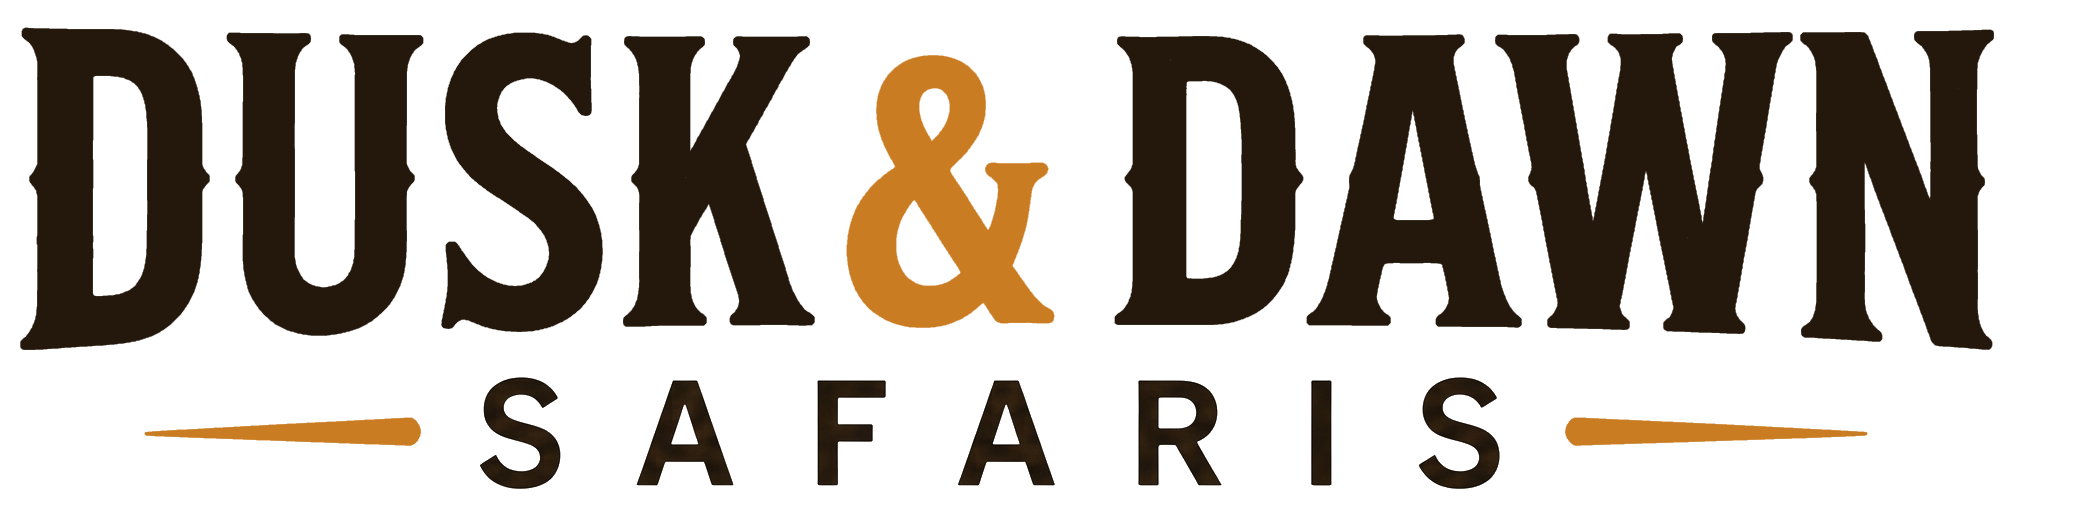
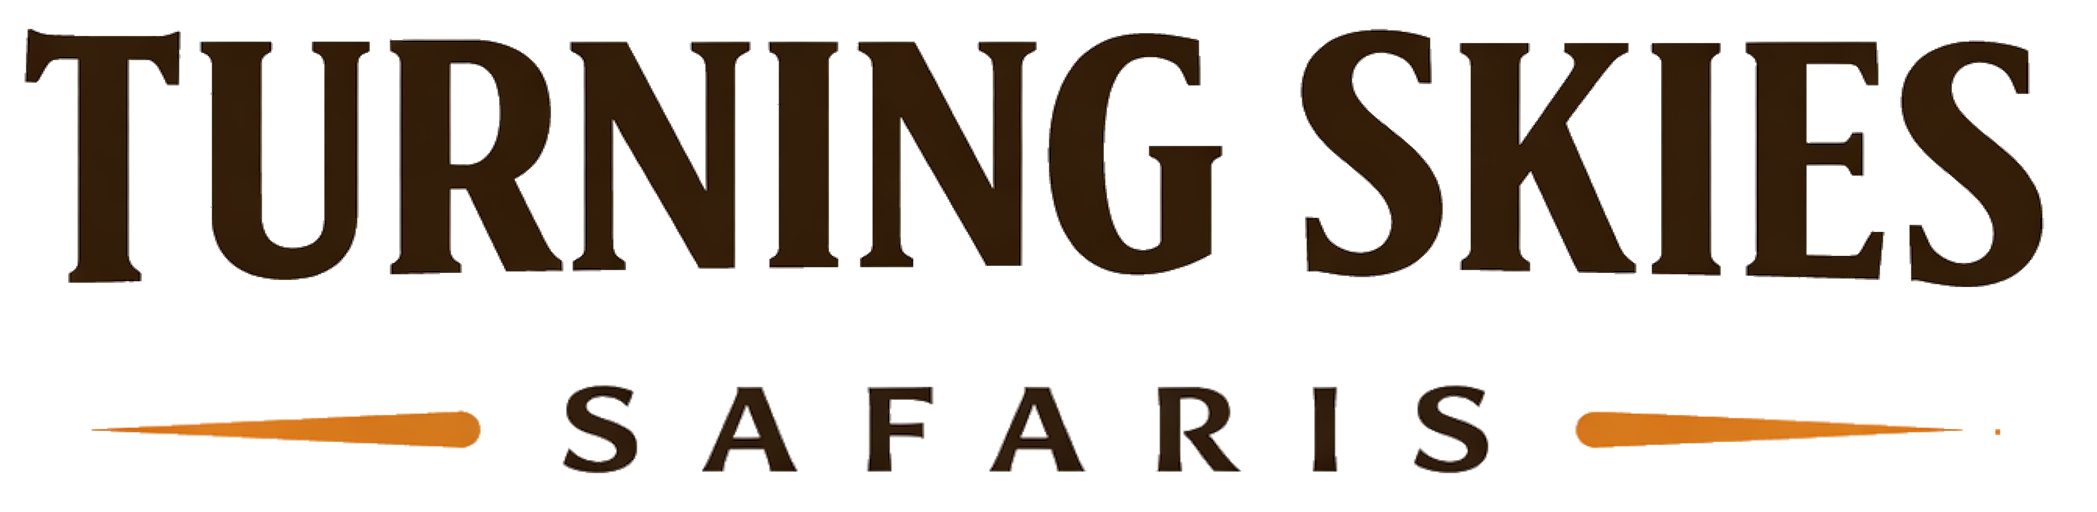
Update Company name

diff --git a/index.html b/index.html
@@ -3,7 +3,7 @@
 <head>
     <meta charset="UTF-8">
     <meta name="viewport" content="width=device-width, initial-scale=1.0">
-    <title>Dusk & Dawn Safari | Arusha, Tanzania</title>
+    <title>Turning Skies Safari | Arusha, Tanzania</title>
 
     <!-- Favicons -->
     <link rel="icon" type="image/png" sizes="32x32" href="img/favicon-32x32.png">
@@ -20,7 +20,7 @@
 
 <nav class="navbar">
     <a href="index.html" class="logo-container">
-        <img src="img/logo.png" alt="Genesis Logo" class="logo-img">
+        <img src="img/logo.png" alt="Turning Skies Logo" class="logo-img">
     </a>
     <div class="menu-toggle" onclick="toggleMenu()">
         <span></span><span></span><span></span>
@@ -47,7 +47,7 @@
     <section class="grid-2" style="align-items: center; margin-bottom: 100px;">
         <div>
 			<h2 style="font-size: 2.5rem; margin-bottom: 25px;">Directorial Precision</h2>
-			<p>At <strong>Dusk & Dawn Safari</strong>, we manage the technical heartbeat of your expedition. From our Arusha headquarters, we provide the <strong>Total Directorial Oversight</strong> necessary to ensure every mile of your journey is guided with professional rigor and integrity.</p>
+			<p>At <strong>Turning Skies Safaris</strong>, we manage the technical heartbeat of your expedition. From our Arusha headquarters, we provide the <strong>Total Directorial Oversight</strong> necessary to ensure every mile of your journey is guided with professional rigor and integrity.</p>
 			<br>
 			<p>We ensure every aspect of your journey is coordinated with precision, care, and unwavering attention to guest safety and comfort.</p>
 		</div>
@@ -93,7 +93,7 @@
         <div class="dd-footer-col">
             <h4 class="dd-footer-title">Contact</h4>
             <p>Arusha, Tanzania</p>
-            <a href="mailto:info@duskanddawnsafari.com">info@duskanddawnsafari.com</a>
+            <a href="mailto:info@turningskiessafari.com">info@turningskiessafari.com</a>
             <p>+255 749 701 719</p>
         </div>
 
@@ -107,7 +107,7 @@
     </div>
 
     <div class="dd-footer-bottom">
-        <p>&copy; 2026 Dusk & Dawn Safari</p>
+        <p>&copy; 2026 Turning Skies Safari</p>
         <p>TALA Licensed • Registered Arusha Office</p>
     </div>
 </footer>
@@ -127,24 +127,20 @@
 </div>
 
 <script>
-    // Show modal on page load
     window.onload = function() {
-        document.getElementById("dd-disclaimer-overlay").style.display = "block";
-        document.getElementById("dd-disclaimer-modal").style.display = "block";
+        document.getElementById("dd-disclaimer-overlay").classList.add("show");
+        document.getElementById("dd-disclaimer-modal").classList.add("show");
     };
 
-    // Only close when clicking the button
     document.getElementById("dd-disclaimer-btn").onclick = function() {
-        document.getElementById("dd-disclaimer-overlay").style.display = "none";
-        document.getElementById("dd-disclaimer-modal").style.display = "none";
+        document.getElementById("dd-disclaimer-overlay").classList.remove("show");
+        document.getElementById("dd-disclaimer-modal").classList.remove("show");
     };
 
-    // Prevent clicking outside the modal from closing it
     document.getElementById("dd-disclaimer-overlay").onclick = function(e) {
         e.stopPropagation();
     };
 
-    // Prevent ESC key from closing anything
     document.addEventListener("keydown", function(e) {
         if (e.key === "Escape") {
             e.preventDefault();

diff --git a/about.html b/about.html
@@ -3,7 +3,7 @@
 <head>
     <meta charset="UTF-8">
     <meta name="viewport" content="width=device-width, initial-scale=1.0">
-    <title>Dusk & Dawn Safari | Our Story</title>
+    <title>Turning Skies Safari | Our Story</title>
 
     <!-- Favicons -->
     <link rel="icon" type="image/png" sizes="32x32" href="img/favicon-32x32.png">
@@ -21,7 +21,7 @@
 <!-- NAVBAR -->
 <nav class="navbar">
     <a href="index.html" class="logo-container">
-        <img src="img/logo.png" alt="Dusk & Dawn Safari Logo" class="logo-img">
+        <img src="img/logo.png" alt="Turning Skies Safari Logo" class="logo-img">
     </a>
     <div class="menu-toggle" onclick="toggleMenu()">
         <span></span><span></span><span></span>
@@ -38,7 +38,7 @@
 <!-- HERO -->
 <section class="hero-slim">
     <div class="hero-inner">
-        <h1 class="hero-title">The Dusk & Dawn Standard</h1>
+        <h1 class="hero-title">The Turning Skies Standard</h1>
         <p class="hero-subtitle">Where intention meets wilderness</p>
     </div>
 </section>
@@ -48,7 +48,7 @@
     <div class="about-text">
         <h2>Our Story</h2>
         <p>
-            Dusk & Dawn Safaris was born from the shared heart of an interracial family who found common ground in the wild places of Tanzania. With roots in two cultures and a mutual love for wildlife, we built this company to share the beauty, peace, and wonder of the African bush with others.
+            Turning Skies Safaris was born from the shared heart of an interracial family who found common ground in the wild places of Tanzania. With roots in two cultures and a mutual love for wildlife, we built this company to share the beauty, peace, and wonder of the African bush with others.
 			For us, the wilderness is more than a destination — it’s where our worlds came together. Every sunrise and sunset reminds us of the balance between our backgrounds, our journeys, and the life we’re building as a family.
         </p>
     </div>
@@ -62,8 +62,8 @@
 <section class="about-feature">
     <h2>Why We Chose the Dik-Dik as our mascot!</h2>
     <p>
-       Our mascot, the dik-dik, carries that same spirit. Small, alert, and full of character, it moves through the savannah with the same rhythm as the sun — rising and setting, playing tag with the moon. Its presence reflects the heart of our name, Dusk & Dawn, and the harmony we hope every guest feels when they travel with us.
-       We created this company to open the door for others to experience the wild the way we do — with respect, curiosity, and a sense of belonging.
+       Our mascot, the dik‑dik, carries that same spirit. Small, alert, and full of character, it moves through the savannah with the rhythm of the changing skies — chasing light, shadow, and the endless horizon. Its presence reflects the heart of our name, Turning Skies Safaris, and the harmony we hope every guest feels when they journey with us.
+	   We created this company to open the door for others to experience the wild the way we do — with respect, curiosity, and a deep sense of belonging.
     </p>
 </section>
 
@@ -146,7 +146,7 @@
         <div class="dd-footer-col">
             <h4 class="dd-footer-title">Contact</h4>
             <p>Arusha, Tanzania</p>
-            <a href="mailto:info@duskanddawnsafari.com">info@duskanddawnsafari.com</a>
+            <a href="mailto:info@turningskiessafari.com">info@turningskiessafari.com</a>
             <p>+255 749 701 719</p>
         </div>
 

diff --git a/style.css b/style.css
@@ -119,6 +119,13 @@ h1, h2, h3, h4 { font-family: 'Playfair Display', serif; color: var(--safari-gre
     padding: 0 40px; /* more breathing room */
 }
 
+.container-header {
+    max-width: 2000px; /* was 1000px */
+    margin-top: 50px;
+    padding: 0 40px; /* more breathing room */
+	font-size: 25px;
+}
+
 .hero-slim {
     background: linear-gradient(to bottom, #f9f7f2, #f4efe7);
     padding: 20px 20px;
@@ -326,6 +333,7 @@ section {
     border-radius: 20px; 
     overflow: hidden; 
     box-shadow: 0 10px 25px rgba(0,0,0,0.05); 
+	font-size: 16px;
 }
 
 /* Image wrapper for overlay */
@@ -1197,7 +1205,7 @@ th { background: var(--safari-green); color: white; text-transform: uppercase; f
     }
 
     .hero-title {
-        font-size: 2.2rem;
+        font-size: 16px;
         line-height: 1.2;
     }
 
@@ -1773,8 +1781,10 @@ th { background: var(--safari-green); color: white; text-transform: uppercase; f
     height: 100%;
     background: rgba(0,0,0,0.65);
     backdrop-filter: blur(3px);
-    display: none;
+    opacity: 0;
+    visibility: hidden;
     z-index: 999;
+    transition: opacity 0.3s ease;
 }
 
 #dd-disclaimer-modal {
@@ -1789,33 +1799,23 @@ th { background: var(--safari-green); color: white; text-transform: uppercase; f
     max-width: 450px;
     border-radius: 10px;
     box-shadow: 0 0 25px rgba(0,0,0,0.4);
-    display: none;
+    opacity: 0;
+    visibility: hidden;
     z-index: 1000;
     text-align: center;
-    animation: fadeIn 0.4s ease;
+    transition: opacity 0.3s ease;
 }
 
-#dd-disclaimer-modal h2 {
-    margin-bottom: 15px;
-    color: #d4a24c;
+/* Disclaimer hidden state */
+#dd-disclaimer-overlay,
+#dd-disclaimer-modal {
+    opacity: 0;
+    visibility: hidden;
+    transition: opacity 0.3s ease;
 }
 
-#dd-disclaimer-btn {
-    margin-top: 20px;
-    padding: 10px 20px;
-    background: #d4a24c;
-    color: #1a1a1a;
-    border: none;
-    border-radius: 5px;
-    cursor: pointer;
-    font-weight: bold;
-}
-
-#dd-disclaimer-btn:hover {
-    background: #b98b3f;
-}
-
-@keyframes fadeIn {
-    from { opacity: 0; transform: translate(-50%, -48%); }
-    to { opacity: 1; transform: translate(-50%, -50%); }
+/* Disclaimer visible state */
+.show {
+    opacity: 1;
+    visibility: visible;
 }

diff --git a/thank-you.html b/thank-you.html
@@ -12,7 +12,7 @@
     <link rel="icon" type="image/png" sizes="512x512" href="img/android-chrome-512x512.png">
     <link rel="manifest" href="site.webmanifest">
 	
-    <title>Thank You | Dusk & Dawn Safari</title>
+    <title>Thank You | Turning Skies Safari</title>
     <link rel="stylesheet" href="style.css">
 </head>
 
@@ -21,7 +21,7 @@
 <!-- NAVBAR -->
 <nav class="navbar">
     <a href="index.html" class="logo-container">
-        <img src="img/logo.png" alt="Dusk & Dawn Safari Logo" class="logo-img">
+        <img src="img/logo.png" alt="Turning Skies Safari Logo" class="logo-img">
     </a>
     <div class="menu-toggle" onclick="toggleMenu()">
         <span></span><span></span><span></span>
@@ -64,7 +64,7 @@
 
         <!-- Brand + Description + Social -->
         <div class="dd-footer-col dd-brand-col">
-            <img src="img/logo.png" alt="Dusk & Dawn Safari Logo" class="dd-footer-logo">
+            <img src="img/logo.png" alt="Turning Skies Safari Logo" class="dd-footer-logo">
 
             <p class="dd-footer-text">
                 Arusha-based directorial oversight for Tanzania's premier wildlife circuits.
@@ -95,7 +95,7 @@
         <div class="dd-footer-col">
             <h4 class="dd-footer-title">Contact</h4>
             <p>Arusha, Tanzania</p>
-            <a href="mailto:info@duskanddawnsafari.com">info@duskanddawnsafari.com</a>
+            <a href="mailto:info@turningskiessafari.com">info@turningskiessafari.com</a>
             <p>+255 749 701 719</p>
         </div>
 
@@ -109,7 +109,7 @@
     </div>
 
     <div class="dd-footer-bottom">
-        <p>&copy; 2026 Dusk & Dawn Safari</p>
+        <p>&copy; 2026 Turning Skies Safaris</p>
         <p>TALA Licensed • Registered Arusha Office</p>
     </div>
 </footer>

diff --git a/team.html b/team.html
@@ -3,7 +3,7 @@
 <head>
     <meta charset="UTF-8">
     <meta name="viewport" content="width=device-width, initial-scale=1.0">
-    <title>Dusk & Dawn Safari | Our Team</title>
+    <title>Turning Skies Safari | Our Team</title>
 
     <!-- Favicons -->
     <link rel="icon" type="image/png" sizes="32x32" href="img/favicon-32x32.png">
@@ -34,8 +34,8 @@
     </ul>
 </nav>
 
-<div class="container">
-    <h2 style="text-align: center; margin-bottom: 40px;">The Faces of Dusk & Dawn Safari</h2>
+<div class="container-header">
+    <h2 style="text-align: center; margin-bottom: 40px;">The Faces of Turning Skies Safaris</h2>
 
     <div class="team-grid">
 
@@ -118,7 +118,7 @@
 
         <!-- Brand + Description + Social -->
         <div class="dd-footer-col dd-brand-col">
-            <img src="img/logo.png" alt="Dusk & Dawn Safari Logo" class="dd-footer-logo">
+            <img src="img/logo.png" alt="Turning Skies Safari Logo" class="dd-footer-logo">
 
             <p class="dd-footer-text">
                 Arusha-based directorial oversight for Tanzania's premier wildlife circuits.
@@ -149,7 +149,7 @@
         <div class="dd-footer-col">
             <h4 class="dd-footer-title">Contact</h4>
             <p>Arusha, Tanzania</p>
-            <a href="mailto:info@duskanddawnsafari.com">info@duskanddawnsafari.com</a>
+            <a href="mailto:info@turningskiessafari.com">info@turningskiessafari.com</a>
             <p>+255 749 701 719</p>
         </div>
 
@@ -163,7 +163,7 @@
     </div>
 
     <div class="dd-footer-bottom">
-        <p>&copy; 2026 Dusk & Dawn Safari</p>
+        <p>&copy; 2026 Turning Skies Safaris</p>
         <p>TALA Licensed • Registered Arusha Office</p>
     </div>
 </footer>

diff --git a/packages.html b/packages.html
@@ -3,7 +3,7 @@
 <head>
     <meta charset="UTF-8">
     <meta-name="viewport" content="width=device-width, initial-scale=1.0">
-    <title>Safari Collections | Dusk & Dawn Safari</title>
+    <title>Safari Collections | Turning Skies Safari</title>
 
     <!-- Favicons -->
     <link rel="icon" type="image/png" sizes="32x32" href="img/favicon-32x32.png">
@@ -20,7 +20,7 @@
 
 <nav class="navbar">
     <a href="index.html" class="logo-container">
-        <img src="img/logo.png" alt="Dusk & Dawn Safari Logo" class="logo-img">
+        <img src="img/logo.png" alt="Turning Skies Safari Logo" class="logo-img">
     </a>
     <div class="menu-toggle" onclick="toggleMenu()">
         <span></span><span></span><span></span>
@@ -174,7 +174,7 @@
         <div class="dd-footer-col">
             <h4 class="dd-footer-title">Contact</h4>
             <p>Arusha, Tanzania</p>
-            <a href="mailto:info@duskanddawnsafari.com">info@duskanddawnsafari.com</a>
+            <a href="mailto:info@turningskiessafari.com">info@turningskiessafari.com</a>
             <p>+255 749 701 719</p>
         </div>
 
@@ -188,7 +188,7 @@
     </div>
 
     <div class="dd-footer-bottom">
-        <p>&copy; 2026 Dusk & Dawn Safari</p>
+        <p>&copy; 2026 Turning Skies Safari</p>
         <p>TALA Licensed • Registered Arusha Office</p>
     </div>
 </footer>

diff --git a/contact.html b/contact.html
@@ -148,7 +148,7 @@
         <div class="dd-footer-col">
             <h4 class="dd-footer-title">Contact</h4>
             <p>Arusha, Tanzania</p>
-            <a href="mailto:info@duskanddawnsafari.com">info@duskanddawnsafari.com</a>
+            <a href="mailto:info@turningskiessafari.com">info@turningskiessafari.com</a>
             <p>+255 749 701 719</p>
         </div>
 

diff --git a/faq.html b/faq.html
@@ -245,7 +245,7 @@
         <div class="dd-footer-col">
             <h4 class="dd-footer-title">Contact</h4>
             <p>Arusha, Tanzania</p>
-            <a href="mailto:info@duskanddawnsafari.com">info@duskanddawnsafari.com</a>
+            <a href="mailto:info@turningskiessafari.com">info@turningskiessafari.com</a>
             <p>+255 749 701 719</p>
         </div>
 
